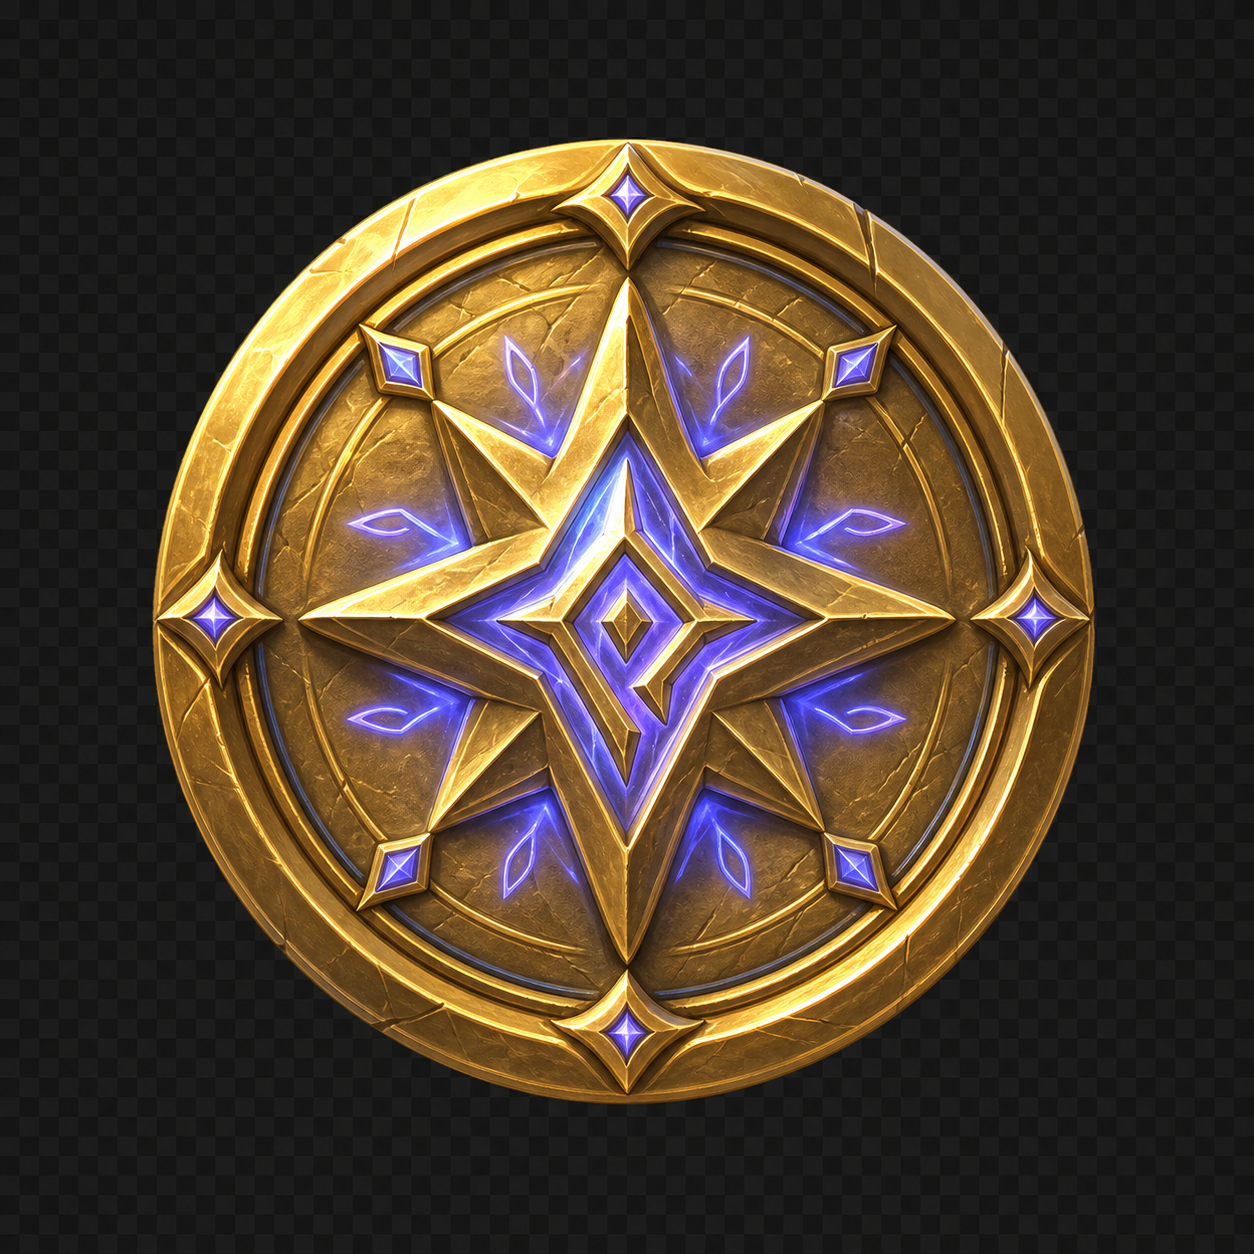
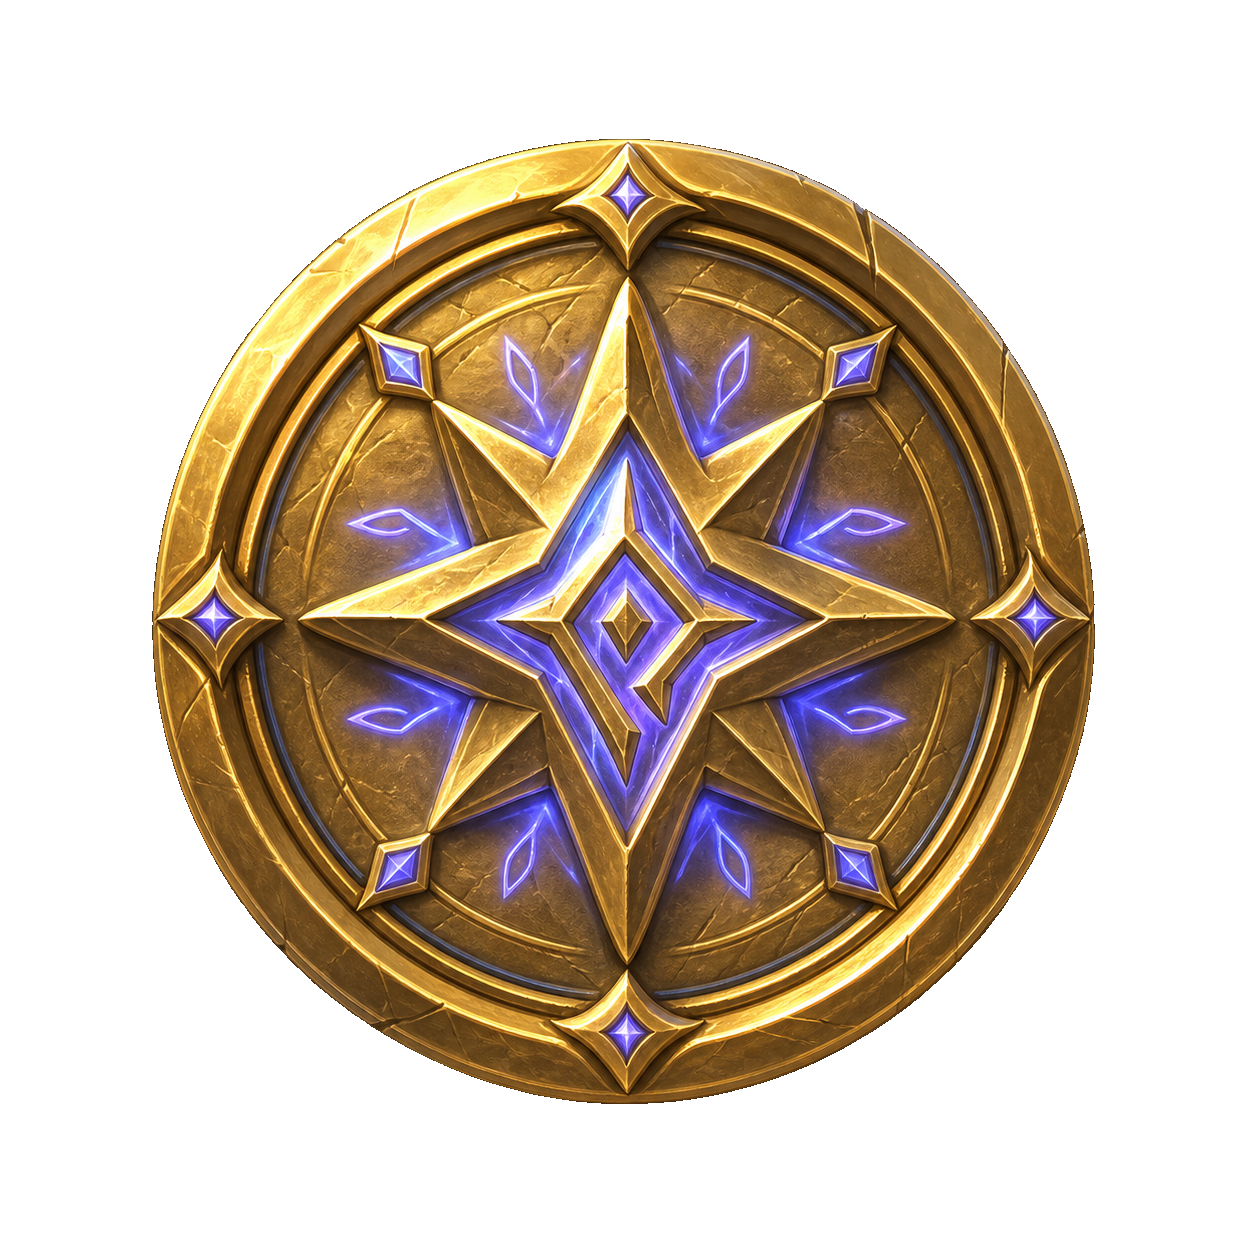
Allow test currency balances

diff --git a/backend/server.js b/backend/server.js
@@ -352,7 +352,7 @@ function applyCurrencyRegen(user) {
   const currentCurrency = clampCurrency(user.currency);
   const updatedAt = Number(user.currencyUpdatedAt) || now;
   if (currentCurrency >= currencyMax) {
-    return { currency: currencyMax, updatedAt: now };
+    return { currency: currentCurrency, updatedAt: now };
   }
 
   const earned = Math.max(0, Math.floor((now - updatedAt) / currencyIntervalMs));
@@ -366,7 +366,7 @@ function applyCurrencyRegen(user) {
 }
 
 function clampCurrency(value) {
-  return Math.min(currencyMax, Math.max(0, Math.floor(Number(value) || 0)));
+  return Math.max(0, Math.floor(Number(value) || 0));
 }
 
 function resolveRecentPulls(cardIds) {

diff --git a/frontend/src/components/Sidebar.jsx b/frontend/src/components/Sidebar.jsx
@@ -21,7 +21,7 @@ export function Sidebar({ activeView, stats, user, onLogout, onViewChange }) {
           <div className="currency-pill" aria-label={`${stats.currency} monedas`}>
             <img src="/assets/arcane-coin.png" alt="" />
             <span>{stats.currency}</span>
-            <small>/ 500</small>
+            {stats.currency <= 500 ? <small>/ 500</small> : null}
           </div>
         </div>
         <button className="ghost-button" type="button" onClick={onLogout}>Salir</button>